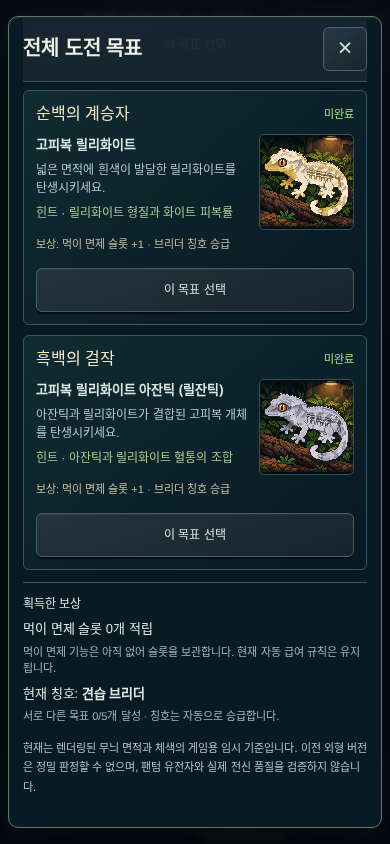
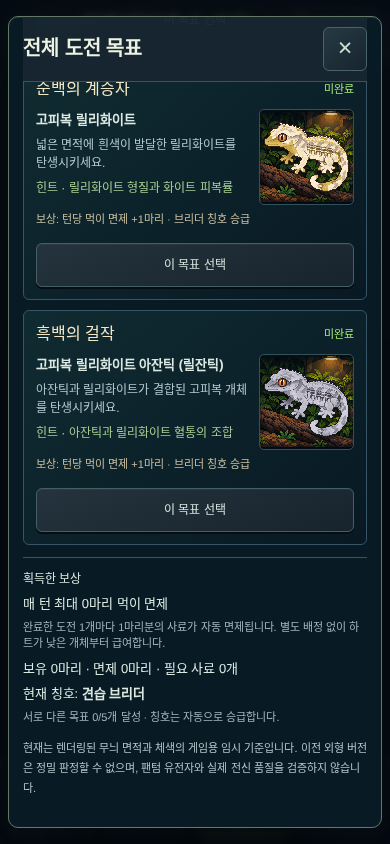
feat: apply feeding exemptions from cleared breeding challenges

diff --git a/e2e/challenge-feeding.spec.ts b/e2e/challenge-feeding.spec.ts
@@ -1,0 +1,71 @@
+import {test,expect,type Page} from '@playwright/test';
+import {mkdir} from 'node:fs/promises';
+import {breederRankGames} from '../tests/helpers/breeder-rank-game';
+import {challengeClutch} from '../tests/helpers/challenge-game';
+import {act} from '../src/game/hardcore/play';
+import {exportBackup} from '../src/game/hardcore/save';
+import type {HardcoreGame} from '../src/game/hardcore/model';
+import {touch,navigateGame} from './helpers/hardcore-navigation';
+const states=breederRankGames();
+async function saved(page:Page):Promise<HardcoreGame>{return page.evaluate(async()=>{
+ const db=await new Promise<IDBDatabase>(r=>{const q=indexedDB.open('gecko-lab',1);q.onsuccess=()=>r(q.result);});
+ return new Promise(r=>{const tx=db.transaction('games'),q=tx.objectStore('games').get('active');q.onsuccess=()=>r(q.result.save.game);tx.oncomplete=()=>db.close();});
+});}
+async function restore(page:Page,g:HardcoreGame,mobile:boolean){
+ await touch(page.getByRole('button',{name:'저장 및 게임 설정',exact:true}),mobile);
+ await page.getByLabel('JSON 백업 파일',{exact:true}).setInputFiles({name:'feeding.json',mimeType:'application/json',buffer:Buffer.from(exportBackup(g))});
+ await touch(page.getByRole('button',{name:'복원 실행',exact:true}),mobile);await expect(page.getByRole('dialog')).toHaveCount(0);
+}
+async function turn(page:Page,mobile:boolean){const n=(await saved(page)).turn;await touch(page.getByRole('button',{name:'턴 넘기기',exact:true}),mobile);await expect(page.getByTestId('game-day')).toHaveText(String(n+1));}
+const errors=new WeakMap<Page,string[]>();
+test.beforeEach(async({page})=>{const e:string[]=[];errors.set(page,e);page.on('pageerror',err=>e.push(err.message));await page.clock.setFixedTime(new Date('2026-10-16T03:00:00Z'));await page.goto('/');await expect(page.getByTestId('breeder-rank')).toBeVisible();});
+test.afterEach(async({page})=>expect(errors.get(page)).toEqual([]));
+
+test('restored two-goal reward reduces actual meals and every tab uses the same shortage calculation',async({page},info)=>{
+ const mobile=info.project.name.startsWith('mobile'),g=structuredClone(states[2]);g.food=8;
+ await restore(page,g,mobile);
+ await touch(page.getByRole('button',{name:'먹이 구입하기',exact:true}),mobile);
+ await expect(page.getByRole('dialog')).toContainText('보유 10마리 · 면제 2마리 · 필요 사료 8개');await page.keyboard.press('Escape');
+ await turn(page,mobile);await expect(page.getByTestId('game-food')).toHaveText('0');await expect(page.getByRole('dialog')).toHaveCount(0);
+ let state=await saved(page);expect(state.food).toBe(0);expect(state.breedingChallenges).toEqual(g.breedingChallenges);expect(Object.values(state.individuals).filter(g=>g.status==='owned').every(g=>g.hearts===5)).toBe(true);
+ await page.reload();await expect(page.getByTestId('game-day')).toHaveText(String(g.turn+1));
+ for(const tab of ['컬렉션','인큐베이터','혈통도','상점']){
+  await navigateGame(page,tab,mobile);const before=await saved(page);
+  await touch(page.getByRole('button',{name:'턴 넘기기',exact:true}),mobile);
+  const warning=page.getByRole('dialog',{name:'턴 종료 전 사료 부족',exact:true});
+  await expect(warning).toContainText('생존 개체 10마리 · 먹이 면제 2마리 · 필요 사료 8개 · 재고 0개 · 부족 8개');expect(await saved(page)).toEqual(before);
+  await page.keyboard.press('Escape');
+ }
+ await touch(page.getByRole('button',{name:'턴 넘기기',exact:true}),mobile);await touch(page.getByRole('button',{name:'사료 부족 상태로 턴 마치기',exact:true}),mobile);
+ state=await saved(page);const hearts=Object.values(state.individuals).filter(g=>g.status==='owned').map(g=>g.hearts);expect(hearts.filter(h=>h===5)).toHaveLength(2);expect(hearts.filter(h=>h===4)).toHaveLength(8);expect(state.food).toBe(0);
+ await navigateGame(page,'혈통도',mobile);await touch(page.getByRole('button',{name:'전체 도전 목표 보기',exact:true}),mobile);
+ const dialog=page.getByRole('dialog',{name:'전체 도전 목표',exact:true});await expect(dialog).toContainText('매 턴 최대 2마리 먹이 면제');await expect(dialog).not.toContainText('슬롯');
+ if(mobile){await page.setViewportSize({width:390,height:844});await dialog.locator('.challenge-rewards').scrollIntoViewIfNeeded();await mkdir('docs/challenge-feeding',{recursive:true});await page.screenshot({path:'docs/challenge-feeding/rewards-390.png',scale:'css'});}
+ await page.keyboard.press('Escape');
+ await touch(page.getByRole('button',{name:'먹이 구입하기',exact:true}),mobile);await page.getByLabel('먹이 구매 수량',{exact:true}).fill('8');
+ await touch(page.getByRole('button',{name:'먹이 구입 · ₩8,000',exact:true}),mobile);await expect(page.getByTestId('game-food')).toHaveText('8');await page.keyboard.press('Escape');
+ await turn(page,mobile);await expect(page.getByTestId('game-food')).toHaveText('0');state=await saved(page);expect(Object.values(state.individuals).filter(g=>g.status==='owned').every(g=>g.hearts===5)).toBe(true);
+});
+
+test('five completions cover a smaller herd for free on every screen, without stocking unused meals',async({page},info)=>{
+ const mobile=info.project.name.startsWith('mobile');let g=structuredClone(states[5]);
+ for(const animal of Object.values(g.individuals).filter(g=>g.status==='owned').slice(3))g=act(g,{type:'sell',id:animal.id},g.lastDate);
+ g.food=0;await restore(page,g,mobile);
+ for(const tab of ['컬렉션','인큐베이터','혈통도','상점']){await navigateGame(page,tab,mobile);await turn(page,mobile);await expect(page.getByRole('dialog')).toHaveCount(0);await expect(page.getByTestId('game-food')).toHaveText('0');}
+ const state=await saved(page);expect(state.food).toBe(0);expect(state.breedingChallenges).toEqual(g.breedingChallenges);
+ expect(Object.values(state.individuals).filter(g=>g.status==='owned')).toHaveLength(3);expect(Object.values(state.individuals).filter(g=>g.status==='owned').every(g=>g.hearts===5)).toBe(true);
+ await page.reload();await expect(page.getByTestId('game-food')).toHaveText('0');await expect(page.getByTestId('breeder-rank')).toHaveText('전설의 브리더');
+});
+
+test('real hatch activates one free meal for next turn, manual receipt increases demand and old reward records are preserved',async({page},info)=>{
+ const mobile=info.project.name.startsWith('mobile'),fixture=challengeClutch('white');let g=fixture.game;g.food=8;
+ g=act(g,{type:'selectChallenge',challengeId:'white'},g.lastDate);await restore(page,g,mobile);
+ for(let n=0;n<4;n++)await turn(page,mobile);
+ const success=page.getByRole('dialog',{name:'브리딩 도전 성공!',exact:true});await expect(success).toContainText('턴당 먹이 면제 +1마리');await expect(success).toContainText('다음 턴 급여부터 자동 적용');await expect(success).not.toContainText('슬롯');
+ let state=await saved(page);expect(state.food).toBe(0);expect(state.breedingChallenges!.completed).toHaveLength(1);expect(state.individuals[state.eggs[fixture.eggId].embryo.id]).toBeUndefined();
+ await touch(success.getByRole('button',{name:'확인',exact:true}),mobile);
+ await touch(page.getByRole('button',{name:'턴 넘기기',exact:true}),mobile);await expect(page.getByRole('dialog')).toContainText('필요 사료 1개');await page.keyboard.press('Escape');
+ await navigateGame(page,'인큐베이터',mobile);await touch(page.getByTestId('receive-hatchling-'+fixture.eggId),mobile);
+ await touch(page.getByRole('button',{name:'턴 넘기기',exact:true}),mobile);await expect(page.getByRole('dialog')).toContainText('생존 개체 3마리 · 먹이 면제 1마리 · 필요 사료 2개');await page.keyboard.press('Escape');
+ state=await saved(page);await page.reload();await expect(page.getByTestId('game-day')).toHaveText('6');expect((await saved(page)).breedingChallenges).toEqual(state.breedingChallenges);
+});

diff --git a/src/components/hardcore/breeding-challenges.tsx b/src/components/hardcore/breeding-challenges.tsx
@@ -1,13 +1,14 @@
 "use client";
 import {memo,useState} from 'react';
 import {BREEDING_CHALLENGES,challengeById,type ChallengeId} from '@/game/hardcore/challenge-rules';
-import {challengeLockRemaining,challengeFeedSlots} from '@/game/hardcore/challenges';
+import {challengeLockRemaining} from '@/game/hardcore/challenges';
 import type {ChallengeCompletion} from '@/game/hardcore/challenges';
 import {Dialog,Sprite,type ViewProps} from './common';
 import {HomeIcon} from './home-icons';
 import {breederRank} from '@/game/hardcore/breeder-rank';
 import {challengePreview} from '@/game/hardcore/challenge-previews';
 import {SpriteCanvas} from '@/components/sprite-canvas';
+import {foodDemand} from '@/game/hardcore/lifecycle';
 
 type Props=Pick<ViewProps,'game'|'busy'|'play'>;
 const ChallengePreview=memo(function ChallengePreview({id,testId='challenge-preview'}:{id:ChallengeId;testId?:string}){
@@ -17,7 +18,7 @@ const ChallengePreview=memo(function ChallengePreview({id,testId='challenge-prev
 });
 export function BreedingChallengePanel({game,busy,play}:Props){
  const [open,setOpen]=useState(false),s=game.breedingChallenges,active=s?.activeId?challengeById(s.activeId):null;
- const rank=breederRank(game),remaining=challengeLockRemaining(game),completed=s?.completed??[],done=completed.some(c=>c.challengeId===active?.id);
+ const rank=breederRank(game),demand=foodDemand(game),remaining=challengeLockRemaining(game),completed=s?.completed??[],done=completed.some(c=>c.challengeId===active?.id);
  return <>
   <section className="breeding-challenge-panel album-metal" aria-labelledby="challenge-title">
    <div className="album-section-title"><HomeIcon name="star"/><h2 id="challenge-title">브리딩 도전</h2><span className="challenge-count">완료 {rank.completed}/5</span></div>
@@ -25,7 +26,7 @@ export function BreedingChallengePanel({game,busy,play}:Props){
     <div className="challenge-summary-copy">
      <strong className="challenge-active-name">{active?.name??'도전 목표를 선택하세요'}</strong>
      <p>{active?active.target:'원하는 모프의 새끼를 탄생시키는 나만의 목표를 골라보세요.'}</p>
-     <div className="challenge-status"><span>{done?'목표 달성 · 변경 가능':remaining?`목표 변경까지 ${remaining}턴` : active?'목표 유지 중 · 변경 가능':'5개 목표 모두 도전 가능'}</span><small>최초 달성: 먹이 면제 슬롯 +1 · 칭호 승급</small></div>
+     <div className="challenge-status"><span>{done?'목표 달성 · 변경 가능':remaining?`목표 변경까지 ${remaining}턴` : active?'목표 유지 중 · 변경 가능':'5개 목표 모두 도전 가능'}</span><small>최초 달성: 턴당 먹이 면제 +1마리 · 칭호 승급</small></div>
     </div>
     {active&&<ChallengePreview id={active.id}/>}
    </div>
@@ -39,11 +40,11 @@ export function BreedingChallengePanel({game,busy,play}:Props){
      <div className="challenge-goal-copy"><strong>{c.target}</strong><p>{c.description}</p><p className="challenge-hint">힌트 · {c.hint}</p></div>
      <ChallengePreview id={c.id} testId="challenge-goal-preview"/>
     </div>
-    <small>보상: 먹이 면제 슬롯 +1 · 브리더 칭호 승급</small>
+    <small>보상: 턴당 먹이 면제 +1마리 · 브리더 칭호 승급</small>
     {record&&<div className="challenge-history"><Sprite gecko={record.specimen}/><div>{record.specimen.name}<small>{record.morph} · {record.achievedTurn}턴 달성</small><small>#{record.specimen.id}</small></div></div>}
     <button className="game-secondary full-width" disabled={busy||!!record||selected||remaining>0} onClick={()=>play({type:'selectChallenge',challengeId:c.id})}>{record?'달성 완료':selected?'현재 선택한 목표':remaining?`잠금 · ${remaining}턴`:'이 목표 선택'}</button>
    </article>;})}</div>
-   <section className="challenge-rewards"><h3>획득한 보상</h3><p>먹이 면제 슬롯 {challengeFeedSlots(game)}개 적립</p><small>먹이 면제 기능은 아직 없어 슬롯을 보관합니다. 현재 자동 급여 규칙은 유지됩니다.</small>
+   <section className="challenge-rewards"><h3>획득한 보상</h3><p>매 턴 최대 {rank.completed}마리 먹이 면제</p><small>완료한 도전 1개마다 1마리분의 사료가 자동 면제됩니다. 별도 배정 없이 하트가 낮은 개체부터 급여합니다.</small><p>보유 {demand.animals}마리 · 면제 {demand.exempt}마리 · 필요 사료 {demand.needed}개</p>
     <p>현재 칭호: <strong>{rank.title}</strong></p><small>서로 다른 목표 {rank.completed}/5개 달성 · 칭호는 자동으로 승급합니다.</small>
    </section>
    <p className="game-small-note">현재는 렌더링된 무늬 면적과 체색의 게임용 임시 기준입니다. 이전 외형 버전은 정밀 판정할 수 없으며, 팬텀 유전자와 실제 전신 품질을 검증하지 않습니다.</p>
@@ -55,7 +56,7 @@ export function ChallengeCelebration({game,completion,busy,play}:Props&{completi
  return <Dialog title="브리딩 도전 성공!" className="challenge-celebration" onClose={close}>
   <h3>{c.name}</h3><div className="challenge-winner"><Sprite gecko={completion.specimen} large/></div>
   <strong>{completion.specimen.name}</strong><p>{completion.morph} · {completion.achievedTurn}턴</p>
-  <p>먹이 면제 슬롯 +1 적립<br/>현재 브리더 칭호: {rank.title}</p><small>목표 최초 달성 수에 따라 자동으로 승급합니다.</small>
+  <p>턴당 먹이 면제 +1마리<br/>매 턴 최대 {rank.completed}마리 면제<br/>현재 브리더 칭호: {rank.title}</p><small>다음 턴 급여부터 자동 적용됩니다. 칭호는 목표 최초 달성 수에 따라 승급합니다.</small>
   <p className="challenge-unlocked">목표 변경 잠금 해제! 다음 목표를 직접 선택하세요.</p>
   <button className="game-primary full-width" disabled={busy} onClick={close}>확인</button>
  </Dialog>;

diff --git a/tests/challenge-feeding.test.ts b/tests/challenge-feeding.test.ts
@@ -1,0 +1,77 @@
+import {test,expect} from 'vitest';
+import {breederRankGames} from './helpers/breeder-rank-game';
+import {challengeClutch,challengeTurn} from './helpers/challenge-game';
+import {foodDemand,processCareAndLifespan} from '@/game/hardcore/lifecycle';
+import {owned} from '@/game/hardcore/survival';
+import {act,newGame} from '@/game/hardcore/play';
+import {breederRank} from '@/game/hardcore/breeder-rank';
+import {exportBackup,parseBackup} from '@/game/hardcore/save';
+import {validateGame} from '@/game/hardcore/validation';
+import {addDays} from '@/game/hardcore/time';
+const states=breederRankGames();
+const state=(n:number)=>structuredClone(states[n]);
+
+test.each([0,1,2,3,4,5])('%i distinct completed goals give that many free meals, consume only the remainder and never replay',count=>{
+ const game=state(count);game.food=50;
+ for(const g of owned(game))g.hearts=3;
+ expect(foodDemand(game)).toEqual({animals:10,exempt:count,needed:10-count,missing:0});
+ const next=challengeTurn(game);expect(next.food).toBe(50-(10-count));
+ expect(owned(next).every(g=>g.hearts===4&&g.lastFedDate===next.lastDate)).toBe(true);
+ const snapshot=structuredClone(next);processCareAndLifespan(next);expect(next).toEqual(snapshot);
+ expect(next.breedingChallenges).toEqual(game.breedingChallenges);validateGame(next);
+});
+
+test.each([0,2,5])('%i livestock cap the five-goal allowance; unused meals never turn into stock or carry over',count=>{
+ let game=state(5);
+ for(const g of owned(game).slice(count))game=act(game,{type:'sell',id:g.id},game.lastDate);
+ game.food=0;expect(foodDemand(game)).toEqual({animals:count,exempt:count,needed:0,missing:0});
+ for(let n=0;n<3;n++)game=challengeTurn(game);
+ expect(game.food).toBe(0);expect(owned(game)).toHaveLength(count);expect(owned(game).every(g=>g.hearts===5)).toBe(true);
+ expect(breederRank(game).completed).toBe(5);validateGame(game);
+});
+
+test('free and paid feeding share deterministic low-heart priority; unfed animals retain the starvation rule',()=>{
+ const game=state(2),animals=owned(game).sort((a,b)=>a.id.localeCompare(b.id));game.food=1;
+ animals.forEach((g,i)=>g.hearts=i<2?1:2);
+ expect(foodDemand(game)).toEqual({animals:10,exempt:2,needed:8,missing:7});
+ const next=challengeTurn(game);expect(next.food).toBe(0);
+ for(let i=0;i<10;i++)expect(next.individuals[animals[i].id].hearts).toBe(i<2?2:i===2?3:1);
+ expect(next.notices.join(' ')).toContain('자동 급여 3마리 · 사료 1개 소비 · 먹이 면제 2마리 · 7마리 미급여');
+ const starving=state(2);starving.food=0;for(const g of owned(starving))g.hearts=1;
+ const after=challengeTurn(starving);expect(owned(after)).toHaveLength(2);expect(owned(after).every(g=>g.hearts===2)).toBe(true);
+ expect(Object.values(after.individuals).filter(g=>g.status==='dead')).toHaveLength(8);
+ expect(breederRank(after).completed).toBe(2);validateGame(after);
+});
+
+test('earned hatch reward begins next turn, pending babies/eggs do not eat, receipt adds a normal feeding target',()=>{
+ let {game,eggId}=challengeClutch('white');game.food=8;
+ game=act(game,{type:'selectChallenge',challengeId:'white'},game.lastDate);
+ for(let n=0;n<4;n++)game=challengeTurn(game);
+ expect(game.breedingChallenges!.completed).toHaveLength(1);expect(game.food).toBe(0);
+ expect(foodDemand(game)).toEqual({animals:2,exempt:1,needed:1,missing:1});
+ game=act(game,{type:'receiveHatchling',eggId},game.lastDate);
+ expect(foodDemand(game)).toEqual({animals:3,exempt:1,needed:2,missing:2});
+ game.food=2;game=challengeTurn(game);expect(game.food).toBe(0);expect(owned(game).every(g=>g.hearts===5)).toBe(true);validateGame(game);
+});
+
+test('v10 legacy reward fields restore as working distinct-goal exemptions; sale/rename and selection cannot erase them; new game resets',()=>{
+ let game=state(3);const records=structuredClone(game.breedingChallenges!.completed);
+ game=parseBackup(exportBackup(game),game.lastDate);expect(foodDemand(game).exempt).toBe(3);
+ game=act(game,{type:'rename',id:owned(game)[0].id,name:'새 이름'},game.lastDate);
+ game=act(game,{type:'sell',id:owned(game)[0].id},game.lastDate);
+ game=act(game,{type:'selectChallenge',challengeId:'monochrome'},game.lastDate);
+ expect(foodDemand(game).exempt).toBe(3);expect(game.breedingChallenges!.completed).toEqual(records);
+ expect(parseBackup(exportBackup(game),game.lastDate)).toEqual(game);
+ const duplicate=structuredClone(game);duplicate.breedingChallenges!.completed.push(duplicate.breedingChallenges!.completed[0]);expect(foodDemand(duplicate).exempt).toBe(3);
+ expect(()=>validateGame(duplicate)).toThrow('도전');
+ const fresh=newGame('fresh-feed',game.lastDate);expect(foodDemand(fresh)).toEqual({animals:0,exempt:0,needed:0,missing:0});
+});
+
+test('free food does not prevent natural death and a deceased founder never removes the permanent reward',()=>{
+ let game=state(1);const target=owned(game)[0];
+ for(const g of owned(game).slice(1))game=act(game,{type:'sell',id:g.id},game.lastDate);
+ const g=game.individuals[target.id];g.birthTurn=game.turn+1-90;g.birthDate=addDays(game.startedDate,g.birthTurn*7);g.stage='adult';
+ game.food=0;game=challengeTurn(game);
+ expect(game.individuals[target.id]).toMatchObject({status:'dead',deathCause:'natural',hearts:0});
+ expect(game.food).toBe(0);expect(breederRank(game).completed).toBe(1);expect(foodDemand(game).exempt).toBe(0);validateGame(game);
+});

diff --git a/src/components/hardcore/details.tsx b/src/components/hardcore/details.tsx
@@ -25,7 +25,7 @@ export function Details({gecko:g,game,busy,play,onDetail,onClose,onBreed,onLinea
     <div className="detail-art"><Sprite gecko={g} large fire={fire}/></div><div className="hc-condition-row"><span>컨디션</span><Hearts gecko={g}/></div>
     <button className="game-secondary full-width" onClick={()=>setFire(fire==="up"?"down":"up")}>파이어 {fire==="up"?"다운":"업"} 미리 보기</button>
     <form className="name-form" onSubmit={async e=>{e.preventDefault();await play({type:"rename",id:g.id,name});}}><label htmlFor="hc-name">개체 이름</label><div><input id="hc-name" maxLength={24} value={name} onChange={e=>setName(e.target.value)} required/><button className="game-secondary" disabled={busy}>이름 저장</button></div></form>
-    <dl className="detail-facts">{isV12(game)&&<><div><dt>나이 · 수명</dt><dd>{ageTurns(game,g)}턴 · {lifeStage(game,g)} · 50턴 노령 / 60턴 은퇴</dd></div><div><dt>사료</dt><dd>{g.status==="pedigree"?"외부 부모 기록 · 급여 대상 아님":g.status==="owned"?"생존 중 턴당 1개 자동 급여":"현재 급여 대상 아님"}</dd></div>{g.status==="dead"&&<div><dt>사망 원인</dt><dd>{g.deathCause==="natural"?"노령 자연사":"사료 부족·컨디션 소진"}</dd></div>}</>}<div><dt>상태</dt><dd>{STATUS[g.status]}{g.diedDate ? " · " + g.diedDate : ""}</dd></div><div><dt>성별 · 성장</dt><dd>{disclosedSex(g)} · {STAGE_LABELS[g.stage]}</dd></div><div><dt>모프</dt><dd data-testid="detail-morph">{visualName(g)}</dd></div><div><dt>전체 외형 분류</dt><dd data-testid="detail-morph-description">{morphDescription(g)}</dd></div><div><dt>공개 유전 정보</dt><dd>{koreanMorphText(knowledgeLabel(publicKnowledge(g)))}</dd></div><div><dt>세대 · 출생</dt><dd>Gen {g.generation} · {g.birthDate}</dd></div><div><dt>고유 ID</dt><dd className="id-text">{g.id}</dd></div><div><dt>혈통명</dt><dd>{g.lineageIds.map(id=>game.lineages[id].name).join(" / ") || "미지정"}</dd></div><div><dt>혈통 자료</dt><dd>{g.provenance === "known" ? "게임 내 부모·유전 기록" : "부모 혈통 미확인"}</dd></div><div><dt>시장 기준가</dt><dd>{won(quote.marketBase)} · 임시 추정</dd></div><div><dt>게임 평가액</dt><dd>{won(quote.valuation)}</dd></div><div><dt>분양 예상가</dt><dd>{won(quote.sell)}</dd></div>{sale && <div><dt>분양 이력</dt><dd>{sale.date} · {won(sale.price)}<br/>{sale.marketVersion}</dd></div>}</dl>
+    <dl className="detail-facts">{isV12(game)&&<><div><dt>나이 · 수명</dt><dd>{ageTurns(game,g)}턴 · {lifeStage(game,g)} · 50턴 노령 / 60턴 은퇴</dd></div><div><dt>사료</dt><dd>{g.status==="pedigree"?"외부 부모 기록 · 급여 대상 아님":g.status==="owned"?"자동 급여 · 도전 완료 수만큼 사료 면제":"현재 급여 대상 아님"}</dd></div>{g.status==="dead"&&<div><dt>사망 원인</dt><dd>{g.deathCause==="natural"?"노령 자연사":"사료 부족·컨디션 소진"}</dd></div>}</>}<div><dt>상태</dt><dd>{STATUS[g.status]}{g.diedDate ? " · " + g.diedDate : ""}</dd></div><div><dt>성별 · 성장</dt><dd>{disclosedSex(g)} · {STAGE_LABELS[g.stage]}</dd></div><div><dt>모프</dt><dd data-testid="detail-morph">{visualName(g)}</dd></div><div><dt>전체 외형 분류</dt><dd data-testid="detail-morph-description">{morphDescription(g)}</dd></div><div><dt>공개 유전 정보</dt><dd>{koreanMorphText(knowledgeLabel(publicKnowledge(g)))}</dd></div><div><dt>세대 · 출생</dt><dd>Gen {g.generation} · {g.birthDate}</dd></div><div><dt>고유 ID</dt><dd className="id-text">{g.id}</dd></div><div><dt>혈통명</dt><dd>{g.lineageIds.map(id=>game.lineages[id].name).join(" / ") || "미지정"}</dd></div><div><dt>혈통 자료</dt><dd>{g.provenance === "known" ? "게임 내 부모·유전 기록" : "부모 혈통 미확인"}</dd></div><div><dt>시장 기준가</dt><dd>{won(quote.marketBase)} · 임시 추정</dd></div><div><dt>게임 평가액</dt><dd>{won(quote.valuation)}</dd></div><div><dt>분양 예상가</dt><dd>{won(quote.sell)}</dd></div>{sale && <div><dt>분양 이력</dt><dd>{sale.date} · {won(sale.price)}<br/>{sale.marketVersion}</dd></div>}</dl>
     <PatternInfo gecko={g}/><KnowledgePanel knowledge={publicKnowledge(g)} legacy={!g.genetics?.genome}/><AdvancedTraits gecko={g}/>
     {g.parents && <div className="detail-parentage"><h3>부모</h3><div>{[g.parents.fatherId,g.parents.motherId].map(id=><button className="game-secondary" key={id} onClick={()=>onDetail(id)}>{game.individuals[id].name} · {STATUS[game.individuals[id].status]}</button>)}</div></div>}
     <details className="hc-traits"><summary>게임용 잠재 외형</summary>{TRAIT_KEYS.map(k=><div key={k}><span>{TRAIT_LABELS[k]}</span><progress value={g.potential[k]} max={1}/><b>{Math.round(g.potential[k]*100)}</b></div>)}<p className="game-small-note">렌더러 입력으로 변환한 외형 점수입니다. 이전 개체는 평균·변이 모델, 신규 개체는 가상 대립유전자 모델을 사용합니다.</p></details>

diff --git a/src/components/hardcore/collection.tsx b/src/components/hardcore/collection.tsx
@@ -58,8 +58,8 @@ export function Collection({game,busy,play,onDetail,onShop,onRush,onResources,on
       </section>:!visible.length&&<div className="home-empty">필터에 맞는 개체가 없습니다.</div>}
     </div>
     {catalogOpen&&<CollectionCatalog game={game} busy={busy} play={play} initial={{morph:filter,sort,stage}} selectedId={selected?.id??""} onSelect={setSelected} onQuery={q=>{setFilter(q.morph);setSort(q.sort);setStage(q.stage);}} onClose={()=>onCatalog(false)} onDetail={onDetail} onResources={onResources} onBreed={onBreed}/> }
-    {care&&<Dialog title="컨디션 관리" onClose={()=>setCare(false)}><p className="game-section-copy">{game.lastDate} · TURN {game.turn} · {game.time.mode==="turn"?"턴 방식":"한국 자정"}<br/>사육장 {animals.length}+예약 {reserved(game)} / {game.capacity}</p><p className="game-section-copy">하트는 게임용 컨디션입니다. 1턴은 7일이며 생존 개체당 사료 1개를 자동 급여합니다. 미급여 시 하트가 1 감소하고, 0이면 영구 폐사합니다. 상단 먹이 + 버튼에서 사료를 확보하세요. 교배 실행 시 부모 조합의 유전 위험과 근친 여부를 추가로 검사합니다.</p>
-      {isV12(game)?<p className="game-section-copy">다음 턴 필요 사료 {foodDemand(game).needed}개 · 재고 {game.food}개 · 부족 {foodDemand(game).missing}개</p>:<button className="game-primary full-width" disabled={busy||!game.food||!animals.some(g=>feedable(game,g))} onClick={()=>play({type:"feedAll"})}>수동 전체 급여 · 먹이 {game.food}개</button>}
+    {care&&<Dialog title="컨디션 관리" onClose={()=>setCare(false)}><p className="game-section-copy">{game.lastDate} · TURN {game.turn} · {game.time.mode==="turn"?"턴 방식":"한국 자정"}<br/>사육장 {animals.length}+예약 {reserved(game)} / {game.capacity}</p><p className="game-section-copy">하트는 게임용 컨디션입니다. 1턴은 7일이며 기본 급여량은 생존 개체당 사료 1개입니다. 완료한 도전 1개마다 매 턴 1마리분을 자동 면제하며 무료 급여도 하트를 회복합니다. 미급여 시 하트가 1 감소하고, 0이면 영구 폐사합니다. 상단 먹이 + 버튼에서 사료를 확보하세요. 교배 실행 시 부모 조합의 유전 위험과 근친 여부를 추가로 검사합니다.</p>
+      {isV12(game)?<p className="game-section-copy">다음 턴 먹이 면제 {foodDemand(game).exempt}마리 · 필요 사료 {foodDemand(game).needed}개 · 재고 {game.food}개 · 부족 {foodDemand(game).missing}개</p>:<button className="game-primary full-width" disabled={busy||!game.food||!animals.some(g=>feedable(game,g))} onClick={()=>play({type:"feedAll"})}>수동 전체 급여 · 먹이 {game.food}개</button>}
       <label className="home-stage-filter">성장 단계 필터<select aria-label="성장 단계 필터" value={stage} onChange={e=>setStage(e.target.value)}><option value="all">전체 성장 단계</option><option value="hatchling">해칭</option><option value="juvenile">아성체</option><option value="adult">성체</option></select></label>
       <button className="game-secondary full-width" aria-label="전체 개체 목록 열기" aria-haspopup="dialog" onClick={()=>{setCare(false);onCatalog(true);}}>전체 개체 목록 · 검색 / 분양가</button>
       <p className="game-small-note">급여는 턴 종료 시 자동 처리합니다. 사료가 부족하면 하트가 적은 개체부터 급여합니다. 카드 더보기에서 이름 수정·분양·유전 정보를 이용할 수 있습니다.</p></Dialog>}

diff --git a/src/game/hardcore/lifecycle.ts b/src/game/hardcore/lifecycle.ts
@@ -1,6 +1,7 @@
 import { seededRandom } from "@/genetics/random";
 import type { Gecko, HardcoreGame } from "./model";
 import { owned } from "./survival";
+import {breederRank} from './breeder-rank';
 
 /** Confirmed v1.2 game rules. Probabilities describe the game, not veterinary advice. */
 export const V12 = Object.freeze({ daysPerTurn: 7, juvenileAfter: 6, adultAfter: 12,
@@ -15,25 +16,29 @@ export function lifeStage(game: HardcoreGame, g: Gecko): string {
   const age=ageTurns(game,g);
   return age>=V12.retireAfter ? "번식 은퇴" : age>=V12.seniorAfter ? "노령기" : g.stage==="adult" ? "성체" : g.stage==="juvenile" ? "아성체" : "해칭";
 }
-export function foodDemand(game: HardcoreGame): { needed:number; missing:number } {
-  const needed=owned(game).length;return {needed,missing:Math.max(0,needed-game.food)};
+export function foodDemand(game: HardcoreGame): { animals:number; exempt:number; needed:number; missing:number } {
+  const animals=owned(game).length,exempt=isV12(game)?Math.min(animals,breederRank(game).completed):0;
+  const needed=animals-exempt;return {animals,exempt,needed,missing:Math.max(0,needed-game.food)};
 }
 function die(game: HardcoreGame, g: Gecko, cause: "starvation" | "natural"): void {
   g.status="dead";g.hearts=0;g.diedDate=game.lastDate;g.deathCause=cause;
   game.notices.push(g.name+(cause==="natural"?" 자연사":" 사료 부족으로 폐사")+" · 혈통·유전·번식 기록 보존");
 }
-/** One unit per living owned animal at turn start; eggs and new hatchlings do not eat yet. */
+/** Each distinct completed challenge covers one meal, in health-priority order,
+ * without assignable slots. Hatch rewards earned later this turn first affect
+ * the following turn. Eggs and unclaimed hatchlings do not eat yet. */
 export function processCareAndLifespan(game: HardcoreGame): void {
   const animals=owned(game).sort((a,b)=>a.hearts-b.hearts||a.id.localeCompare(b.id));
-  let fed=0,unfed=0;
+  let freeRemaining=foodDemand(game).exempt,fed=0,unfed=0,exempt=0;
   for(const g of animals){
+    const free=freeRemaining>0;if(free)freeRemaining--;
     if(g.lastProcessedTurn===game.turn)continue;
     g.lastProcessedTurn=game.turn;
-    if(game.food>0){game.food--;g.lastFedDate=game.lastDate;g.hearts=Math.min(5,g.hearts+1);fed++;}
+    if(free||game.food>0){if(free)exempt++;else game.food--;g.lastFedDate=game.lastDate;g.hearts=Math.min(5,g.hearts+1);fed++;}
     else {unfed++;g.hearts--;if(g.hearts===0)die(game,g,"starvation");}
     if(g.status!=="owned")continue;
     const probability=naturalDeathProbability(ageTurns(game,g));
     if(probability>0&&seededRandom(game.seed+"|"+g.id,"natural-death:"+ageTurns(game,g))()<probability)die(game,g,"natural");
   }
-  if(fed+unfed)game.notices.push(`자동 급여 ${fed}마리 · 사료 ${fed}개 소비${unfed?` · ${unfed}마리 미급여, 하트 −1`:""}`);
+  if(fed+unfed)game.notices.push(`자동 급여 ${fed}마리 · 사료 ${fed-exempt}개 소비${exempt?` · 먹이 면제 ${exempt}마리`:""}${unfed?` · ${unfed}마리 미급여, 하트 −1`:""}`);
 }

diff --git a/src/components/hardcore/end-turn.tsx b/src/components/hardcore/end-turn.tsx
@@ -7,7 +7,7 @@ export function EndTurnButton({game,busy,play,onShop,className,children}:{game:H
  const [confirm,setConfirm]=useState(false),note=useId(),demand=foodDemand(game);
  const next=async()=>{if(await play({type:"endTurn"}))setConfirm(false);};
  return <><button className={className} disabled={busy||game.time.mode!=="turn"} aria-describedby={note} onClick={()=>{if(isV12(game)&&demand.missing)setConfirm(true);else void next();}}>{children}</button>
-  <p id={note} className="sr-only">{isV12(game)?`1턴 7일 · 생존 개체 ${demand.needed}마리 자동 급여 · 사료 재고 ${game.food}개${demand.missing?` · ${demand.missing}개 부족`:""}`:game.time.mode==="turn"?"하루 진행 · 하트 −1 · 번식·성장·상점 갱신":"한국 자정 모드입니다. 설정에서 턴 방식으로 변경하세요."}</p>
-  {confirm&&<Dialog title="턴 종료 전 사료 부족" onClose={()=>setConfirm(false)}><p className="game-warning" role="alert">생존 개체 {demand.needed}마리 · 필요 사료 {demand.needed}개 · 재고 {game.food}개 · 부족 {demand.missing}개</p><p className="game-section-copy">미급여 개체는 하트가 1 감소하고, 0이 되면 영구 폐사합니다. 하트가 적은 개체부터 급여합니다. 알은 사료를 소비하지 않습니다.</p><button className="game-primary full-width" disabled={busy} onClick={()=>{setConfirm(false);onShop();}}>사료 구입하러 가기</button><button className="game-secondary full-width" disabled={busy} onClick={()=>void next()}>사료 부족 상태로 턴 마치기</button></Dialog>}
+  <p id={note} className="sr-only">{isV12(game)?`1턴 7일 · 생존 개체 ${demand.animals}마리 자동 급여 · 먹이 면제 ${demand.exempt}마리 · 필요 사료 ${demand.needed}개 · 사료 재고 ${game.food}개${demand.missing?` · ${demand.missing}개 부족`:""}`:game.time.mode==="turn"?"하루 진행 · 하트 −1 · 번식·성장·상점 갱신":"한국 자정 모드입니다. 설정에서 턴 방식으로 변경하세요."}</p>
+  {confirm&&<Dialog title="턴 종료 전 사료 부족" onClose={()=>setConfirm(false)}><p className="game-warning" role="alert">생존 개체 {demand.animals}마리 · 먹이 면제 {demand.exempt}마리 · 필요 사료 {demand.needed}개 · 재고 {game.food}개 · 부족 {demand.missing}개</p><p className="game-section-copy">미급여 개체는 하트가 1 감소하고, 0이 되면 영구 폐사합니다. 먹이 면제와 재고 사료 모두 하트가 적은 개체부터 적용합니다. 알은 사료를 소비하지 않습니다.</p><button className="game-primary full-width" disabled={busy} onClick={()=>{setConfirm(false);onShop();}}>사료 구입하러 가기</button><button className="game-secondary full-width" disabled={busy} onClick={()=>void next()}>사료 부족 상태로 턴 마치기</button></Dialog>}
  </>;
 }

diff --git a/src/components/hardcore/dashboard.tsx b/src/components/hardcore/dashboard.tsx
@@ -1,14 +1,15 @@
 import { owned, reserved } from "@/game/hardcore/survival";
+import {foodDemand} from "@/game/hardcore/lifecycle";
 import { addDays } from "@/game/hardcore/time";
 import type { ViewProps } from "./common";
 import { Hearts } from "./common";
 
 export function Dashboard({game,onDetail,onTab}: ViewProps & {onTab:(tab:string)=>void}) {
-  const animals = owned(game), danger = animals.filter(g=>g.hearts<=2);
+  const demand=foodDemand(game),animals = owned(game), danger = animals.filter(g=>g.hearts<=2);
   const matings = Object.values(game.matings).filter(m=>m.status === "pending" || m.status === "fertilized");
   const eggs = Object.values(game.eggs).filter(e=>e.status === "incubating");
   return <section><div className="game-section-heading"><div><span className="eyebrow">DAILY BREEDER</span><h1>오늘의 연구소</h1></div><span className="game-count-chip">{game.time.mode === "turn" ? "턴 방식" : "한국 시간"}</span></div>
-    <div className="hc-daily-note"><strong>{"1턴 7일 · 생존 개체당 사료 1개 자동 급여"}</strong><p>사료가 부족하면 미급여 개체의 하트가 1 감소합니다. 하트 0이면 영구 폐사하며 혈통은 보존됩니다. 50턴부터 노령, 60턴부터 은퇴, 65턴부터 자연사 확률을 적용합니다.</p></div>
+    <div className="hc-daily-note"><strong>1턴 7일 · 먹이 면제 {demand.exempt}마리 · 필요 사료 {demand.needed}개</strong><p>사료가 부족하면 미급여 개체의 하트가 1 감소합니다. 하트 0이면 영구 폐사하며 혈통은 보존됩니다. 50턴부터 노령, 60턴부터 은퇴, 65턴부터 자연사 확률을 적용합니다.</p></div>
     {!animals.length && <div className="game-empty"><h2>작은 혈통의 시작</h2><p>상점에서 노멀 한 쌍을, 상단 먹이 +에서 사료를 준비하세요. 인큐베이터 슬롯 2개를 남겨 두면 첫 교배가 가능합니다.</p><button className="game-primary full-width" onClick={()=>onTab("shop")}>상점에서 시작하기</button></div>}
     <h2 className="lineage-subtitle">주의가 필요한 개체 <span>{danger.length}</span></h2>
     {danger.length ? danger.slice(0,12).map(g=><button className="hc-list-row" key={g.id} onClick={()=>onDetail(g.id)}><strong>{g.name}</strong><Hearts gecko={g}/><span>급여 필요</span></button>) : <p className="game-small-note">현재 하트 2 이하의 보유 개체가 없습니다.</p>}

diff --git a/src/components/hardcore/resources.tsx b/src/components/hardcore/resources.tsx
@@ -3,13 +3,14 @@ import {useState} from 'react';
 import {Dialog,won,type ViewProps} from './common';
 import {expansionPrice} from '@/game/hardcore/economy';
 import {freeSlots,owned,reserved} from '@/game/hardcore/survival';
+import {foodDemand} from '@/game/hardcore/lifecycle';
 /** Existing economy actions remain outside the gecko-only shop. */
 export function ResourceManagement({game,busy,play,onClose}:ViewProps&{onClose:()=>void}){
- const [amount,setAmount]=useState(10);
+ const [amount,setAmount]=useState(10),demand=foodDemand(game);
  return <Dialog title="사료 및 사육장 관리" onClose={onClose}>
   <p className="game-section-copy" data-testid="resource-balance">보유 금액 {won(game.money)}</p>
   <div className="hc-resource-box"><h2>먹이 재고 {game.food}개</h2><form onSubmit={e=>{e.preventDefault();void play({type:'buyFood',amount});}}><label>먹이 구매 수량<input type="number" min={1} max={1000} value={amount} onChange={e=>setAmount(Number(e.target.value))}/></label><button className="game-primary" disabled={busy||!Number.isInteger(amount)||amount<1||amount>1000||game.money<amount*game.rules.foodUnitPrice}>먹이 구입 · {won(amount*game.rules.foodUnitPrice)}</button></form></div>
   <div className="hc-resource-box"><h2>사육장 {owned(game).length}+예약 {reserved(game)} / {game.capacity}</h2><p>여유 공간 {freeSlots(game)}칸 · 예약 공간은 다른 개체 구매에 사용할 수 없습니다.</p><button className="game-secondary full-width" disabled={busy||game.money<expansionPrice(game)||game.capacity>=game.rules.maxCapacity} onClick={()=>play({type:'expand'})}>사육장 +{game.rules.expansionSlots}칸 · {won(expansionPrice(game))}</button></div>
-  <p className="game-small-note">사료는 턴 종료 시 생존 보유 개체마다 1개씩 소비합니다. 상점에서는 게코 개체만 분양합니다.</p>
+  <p className="game-small-note">기본 사료는 생존 보유 개체당 턴마다 1개입니다. 도전 완료 수만큼 자동 면제됩니다. 다음 턴: 보유 {demand.animals}마리 · 면제 {demand.exempt}마리 · 필요 사료 {demand.needed}개. 상점에서는 게코 개체만 분양합니다.</p>
  </Dialog>;
 }

diff --git a/src/components/hardcore/hub.tsx b/src/components/hardcore/hub.tsx
@@ -48,7 +48,7 @@ export default function HardcoreHub() {
     {!isReference&&game && <div className="hc-stats" aria-label="연구소 자원"><div><span><Icon name="sun" size={13}/>게임 자금</span><b data-testid="game-money">{won(game.money)}</b></div><div><span><Icon name="leaf" size={13}/>먹이</span><b data-testid="game-food">{game.food}개</b></div><div><span><Icon name="grid" size={13}/>사육장 / 예약</span><b>{owned(game).length}+{reserved(game)} / {game.capacity}</b></div></div>}
     <div className={isReference?"sr-only":"hc-control-bar "+(game?.time.mode === "realtime"||tab!=="breeding" ? "is-realtime" : "")}>
       <div className="hc-clock"><strong data-testid="game-date">{game?.lastDate ?? "—"}</strong><span>{game?.time.mode === "realtime" ? "현실 시간 · 한국 자정" : "턴제 · 1턴 7일"}</span>{game && <span>TURN <b data-testid="game-day">{game.turn}</b></span>}<small>{busy ? "저장 중…" : conflict ? "다른 창의 변경 확인 필요" : game ? "자동 저장 완료" : "로컬 저장 확인"}</small></div>
-      {tab==="breeding"&&game?.time.mode === "turn" && <><div className="hc-end-turn"><EndTurnButton game={game} busy={disabled} play={act} onShop={()=>setResources(true)} className="game-primary full-width">턴 마치기</EndTurnButton></div><p className="hc-turn-note">1턴 7일 · 개체당 사료 1개 자동 급여 · 성장·번식·수명 판정</p></>}
+      {tab==="breeding"&&game?.time.mode === "turn" && <><div className="hc-end-turn"><EndTurnButton game={game} busy={disabled} play={act} onShop={()=>setResources(true)} className="game-primary full-width">턴 마치기</EndTurnButton></div><p className="hc-turn-note">1턴 7일 · 도전 완료 수만큼 먹이 면제 · 성장·번식·수명 판정</p></>}
     </div>
     {error && <div className="game-error-banner" role="alert">{error}{conflict && <button className="game-secondary full-width" onClick={()=>location.reload()}>저장 상태 새로고침</button>}</div>}
     {!isReference&&game && game.notices.length>0 && <div className="hc-notices" role="status">{game.notices.slice(-5).map((n,i)=><p key={i}>{n}</p>)}</div>}

diff --git a/src/game/hardcore/challenges.ts b/src/game/hardcore/challenges.ts
@@ -3,12 +3,14 @@ import {CHALLENGE_LOCK_TURNS,challengeById,isChallengeId,type ChallengeId} from 
 import {evaluateBreedingChallenge} from './challenge-evaluator';
 import {bornIndividual} from './egg-outcome';
 import {visualName,morphDescription} from './adapter';
+import {breederRank} from './breeder-rank';
 
 export interface ChallengeCompletion {
  challengeId:ChallengeId;eggId:string;achievedTurn:number;evaluatorVersion:1;
  /** Immutable birth portrait includes seed, appearance version, genome and parents.
   * It never counts as another owned animal; the existing egg remains pedigree evidence. */
  specimen:Gecko;morph:string;phenotype:string;
+ /** Legacy field name retained for save compatibility; not assignable slots. */
  reward:{feedExemptionSlots:1;titleId:ChallengeId};announced:boolean;
 }
 export interface BreedingChallenges {
@@ -19,9 +21,9 @@ export interface BreedingChallenges {
 }
 export const emptyChallenges=():BreedingChallenges=>({version:1,activeId:null,selectedTurn:null,unlockTurn:null,completed:[],equippedTitle:null});
 export const challengeLockRemaining=(game:HardcoreGame)=>Math.max(0,(game.breedingChallenges?.unlockTurn??game.turn)-game.turn);
-/** Reward ledger only: no feed-exemption engine existed before this feature.
- * Do not silently change the established one-food-per-animal economy. */
-export const challengeFeedSlots=(game:HardcoreGame)=>game.breedingChallenges?.completed.reduce((n,c)=>n+c.reward.feedExemptionSlots,0)??0;
+/** @deprecated Compatibility accessor. Actual free meals use distinct completed
+ * goals, the same source as breeder rank, without a second reward counter. */
+export const challengeFeedSlots=(game:HardcoreGame)=>breederRank(game).completed;
 export function selectChallenge(game:HardcoreGame,id:ChallengeId):void {
  if(game.saveVersion!==10||!isChallengeId(id))throw new Error('지원하지 않는 브리딩 도전입니다.');
  const state=game.breedingChallenges??emptyChallenges();

diff --git a/src/components/hardcore/collection-catalog.tsx b/src/components/hardcore/collection-catalog.tsx
@@ -50,6 +50,6 @@ export function CollectionCatalog({game,busy,play,initial,selectedId,onSelect,on
    </div>
    {!entries.length&&<p className="collection-list-empty">{animals.length?"조건에 맞는 개체가 없습니다.":"보유 개체가 없습니다."}</p>}
   </div>
-  <div className="collection-manager-footer"><p>{isV12(game)?`턴 종료 시 ${demand.needed}마리 자동 급여 · 사료 ${game.food}개${demand.missing?` · ${demand.missing}개 부족`:""}`:`사료 ${game.food}개 · 수동 급여`}<span>TURN {game.turn} · 분양 예상가는 현재 게임 기준</span></p><div><button className="game-secondary" disabled={busy} onClick={onResources}>사료·사육장</button>{!isV12(game)&&selected?<button className="game-primary" disabled={busy||!game.food||!feedable(game,selected)} onClick={()=>void play({type:"feed",id:selected.id})}>먹이 1개 급여</button>:<EndTurnButton game={game} busy={busy} play={play} onShop={onResources} className="game-primary">턴 넘기기</EndTurnButton>}</div></div>
+  <div className="collection-manager-footer"><p>{isV12(game)?`턴 종료 시 ${demand.animals}마리 자동 급여 · 면제 ${demand.exempt}마리 · 필요 ${demand.needed}개 · 재고 ${game.food}개${demand.missing?` · ${demand.missing}개 부족`:""}`:`사료 ${game.food}개 · 수동 급여`}<span>TURN {game.turn} · 분양 예상가는 현재 게임 기준</span></p><div><button className="game-secondary" disabled={busy} onClick={onResources}>사료·사육장</button>{!isV12(game)&&selected?<button className="game-primary" disabled={busy||!game.food||!feedable(game,selected)} onClick={()=>void play({type:"feed",id:selected.id})}>먹이 1개 급여</button>:<EndTurnButton game={game} busy={busy} play={play} onShop={onResources} className="game-primary">턴 넘기기</EndTurnButton>}</div></div>
  </Dialog>;
 }
